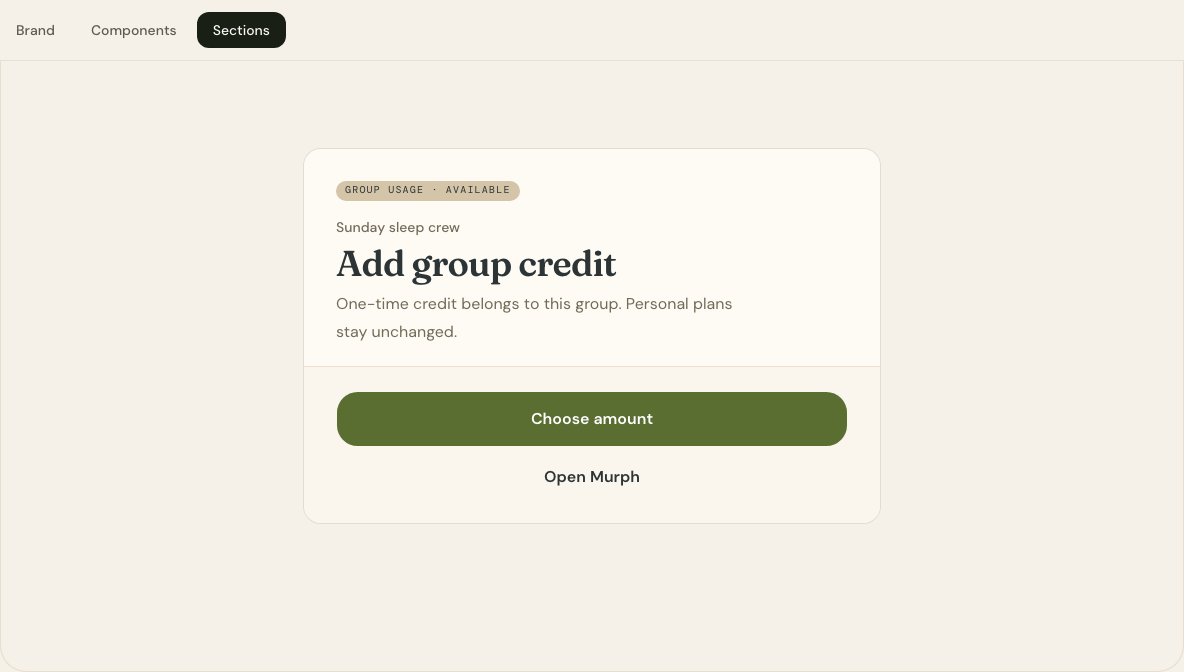
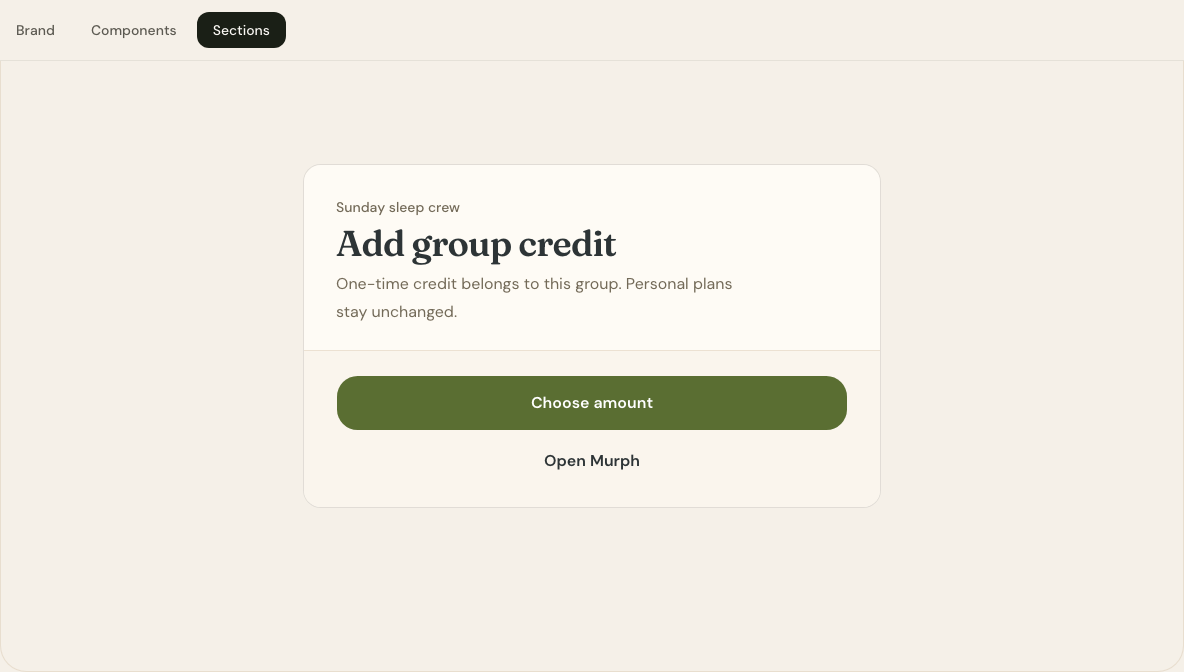
fix(web): polish group funding visual alignment

Changed region(s): [[0.2812, 0.25, 0.7188, 0.7188]]

diff --git a/apps/web/test/hosted-group-funding-page.test.tsx b/apps/web/test/hosted-group-funding-page.test.tsx
@@ -31,11 +31,6 @@ vi.mock("@/src/components/settings/hosted-usage-top-up-dialog", () => ({
   HostedUsageTopUpDialog: mocks.HostedUsageTopUpDialog,
 }));
 
-vi.mock("@/src/components/ui/badge", () => ({
-  Badge: (props: { children?: React.ReactNode }) =>
-    React.createElement("span", null, props.children),
-}));
-
 vi.mock("@/src/components/ui/button", () => ({
   Button: (props: { children?: React.ReactNode }) =>
     React.createElement("button", null, props.children),
@@ -125,7 +120,7 @@ describe("hosted group funding page", () => {
       markup,
       /One-time credit belongs to this group\. Personal plans stay unchanged\./u,
     );
-    assert.match(markup, /Group usage · Running low/u);
+    assert.doesNotMatch(markup, /Group usage|Running low/u);
     assert.match(markup, /top-up:group/u);
     assert.match(markup, /href="\/home"[^>]*>Open Murph<\/a>/u);
     expect(mocks.readHostedUsageCreditPurchaseStatus).toHaveBeenCalledWith({
@@ -142,28 +137,6 @@ describe("hosted group funding page", () => {
       undefined,
     );
   });
-
-  it.each([
-    ["healthy", "Available"],
-    ["low", "Running low"],
-    ["exhausted", "Paused"],
-    [null, "Status unavailable"],
-  ] as const)(
-    "projects the %s capacity state into the shortened group status label",
-    async (capacityState, capacityLabel) => {
-      mocks.readHostedGroupUsageStatus.mockResolvedValueOnce({
-        capacityState,
-        fundingUrl: "https://www.withmurph.ai/groups/fund/group_join_code_1234",
-        periodEnd: "2026-08-01T00:00:00.000Z",
-      });
-
-      const markup = renderToStaticMarkup(await GroupFundingPage({
-        params: Promise.resolve({ joinCode: "group_join_code_1234" }),
-      }));
-
-      assert.match(markup, new RegExp(`Group usage · ${capacityLabel}`, "u"));
-    },
-  );
 
   it("ignores a checkout return belonging to another funding target", async () => {
     mocks.readHostedUsageCreditPurchaseStatus.mockRejectedValueOnce(

diff --git a/apps/web/test/hosted-usage-top-up-dialog.test.tsx b/apps/web/test/hosted-usage-top-up-dialog.test.tsx
@@ -259,10 +259,34 @@ test("opens from the settings deep link without preselecting a top-up", async ()
       'label[for="usage-top-up-0"]',
     );
     assert.ok(firstAmountCard);
-    assert.equal(firstAmountCard.classList.contains("min-h-20"), true);
-    assert.equal(firstAmountCard.classList.contains("sm:min-h-24"), true);
+    assert.equal(firstAmountCard.classList.contains("h-20"), true);
+    assert.equal(firstAmountCard.classList.contains("sm:h-24"), true);
+    assert.equal(
+      firstAmountCard.classList.contains(
+        "[&_[data-slot=field-content]]:justify-center",
+      ),
+      true,
+    );
+    assert.equal(
+      firstAmountCard.classList.contains(
+        "[&_[data-slot=field-content]]:gap-0",
+      ),
+      true,
+    );
     assert.equal(
       firstAmountCard.querySelector("span")?.classList.contains("text-3xl"),
+      true,
+    );
+    assert.equal(
+      firstAmountCard.querySelector("span")?.classList.contains("leading-none"),
+      true,
+    );
+    assert.equal(
+      firstAmountCard.querySelector("span")?.classList.contains("h-5"),
+      true,
+    );
+    assert.equal(
+      firstAmountCard.querySelector("span")?.classList.contains("items-center"),
       true,
     );
     const selectionActions = buttonByText(

diff --git a/apps/web/src/components/hosted-groups/group-usage-funding-card.tsx b/apps/web/src/components/hosted-groups/group-usage-funding-card.tsx
@@ -1,6 +1,5 @@
 import Link from "next/link";
 
-import { Badge } from "@/src/components/ui/badge";
 import { buttonVariants } from "@/src/components/ui/button";
 import {
   Card,
@@ -13,24 +12,16 @@ import { cn } from "@/src/lib/utils";
 
 type GroupUsageFundingCardProps = {
   action: React.ReactNode;
-  capacityLabel: string;
   groupName: string;
 };
 
 function GroupUsageFundingCard({
   action,
-  capacityLabel,
   groupName,
 }: GroupUsageFundingCardProps) {
   return (
     <Card className="gap-5 py-6 sm:py-8">
-      <CardHeader className="gap-4 px-6 sm:px-8">
-        <Badge
-          variant="secondary"
-          className="w-fit font-mono text-[10px] uppercase tracking-[0.12em]"
-        >
-          Group usage · {capacityLabel}
-        </Badge>
+      <CardHeader className="px-6 sm:px-8">
         <div className="flex flex-col gap-2">
           <p className="text-sm font-medium text-muted-foreground">{groupName}</p>
           <CardTitle>

diff --git a/apps/web/src/components/settings/hosted-usage-top-up-dialog.tsx b/apps/web/src/components/settings/hosted-usage-top-up-dialog.tsx
@@ -279,9 +279,9 @@ function HostedUsageTopUpDialog(props: HostedUsageTopUpDialogProps) {
                     id={`${props.scope === "group" ? "group-" : ""}usage-top-up-${index}`}
                     value={offer.offerCode}
                     disabled={hasAttempt}
-                    className="min-h-20 [&>[data-slot=field]]:items-center sm:min-h-24"
+                    className="h-20 [&_[data-slot=field-content]]:gap-0 [&_[data-slot=field-content]]:justify-center sm:h-24"
                     title={
-                      <span className="font-serif text-3xl font-semibold tabular-nums">
+                      <span className="flex h-5 items-center font-serif text-3xl font-semibold leading-none tabular-nums">
                         {offer.amountLabel}
                       </span>
                     }

diff --git a/apps/web/app/groups/fund/[joinCode]/page.tsx b/apps/web/app/groups/fund/[joinCode]/page.tsx
@@ -131,7 +131,6 @@ export default async function GroupFundingPage({
             <GroupFundingSignInButton />
           )
         }
-        capacityLabel={readCapacityLabel(usageStatus.capacityState)}
         groupName={groupName}
       />
     </main>
@@ -158,21 +157,6 @@ function GroupFundingUnavailable() {
       </Card>
     </main>
   );
-}
-
-function readCapacityLabel(
-  capacityState: "exhausted" | "healthy" | "low" | null,
-): string {
-  switch (capacityState) {
-    case "healthy":
-      return "Available";
-    case "low":
-      return "Running low";
-    case "exhausted":
-      return "Paused";
-    default:
-      return "Status unavailable";
-  }
 }
 
 function readUsageTopUpPurchaseReturn(

diff --git a/apps/web/src/components/ui/choice-card.tsx b/apps/web/src/components/ui/choice-card.tsx
@@ -59,7 +59,7 @@ function ChoiceCard({
         </span>
       ) : null}
       <Field
-        className="relative z-10 h-full gap-3 p-4 sm:p-5"
+        className="relative z-10 h-full gap-3 p-4 [&>[data-slot=radio-group-item]]:absolute sm:p-5"
       >
         <RadioGroupItem
           aria-describedby={[descriptionId, metaId].filter(Boolean).join(" ")}

diff --git a/apps/web/app/design/components-content.tsx b/apps/web/app/design/components-content.tsx
@@ -561,7 +561,6 @@ export function ComponentsContent() {
                   scope="group"
                 />
               }
-              capacityLabel="Available"
               groupName="Sunday sleep crew"
             />
           </div>

diff --git a/apps/web/app/design/group-usage-funding-study.tsx b/apps/web/app/design/group-usage-funding-study.tsx
@@ -43,7 +43,6 @@ function GroupUsageFundingStudy() {
               scope="group"
             />
           }
-          capacityLabel="Available"
           groupName="Sunday sleep crew"
         />
       </div>

diff --git a/DESIGN.md b/DESIGN.md
@@ -338,8 +338,8 @@ navigation or as a substitute for ordinary buttons.
 ### Group Usage Funding
 Use `GroupUsageFundingCard` as the public entry surface for one-time group usage
 credit. Lead with the group name, one concise sentence explaining that the
-credit belongs to the group, and one primary action. Keep status in a muted
-badge and retain `Open Murph` as the quiet secondary action.
+credit belongs to the group, and one primary action. Do not add a decorative
+status badge; retain `Open Murph` as the quiet secondary action.
 
 Use `HostedUsageTopUpDialog` for amount selection. Present the fixed offers as
 large choice cards, then one primary `Continue to checkout` action and a plain
